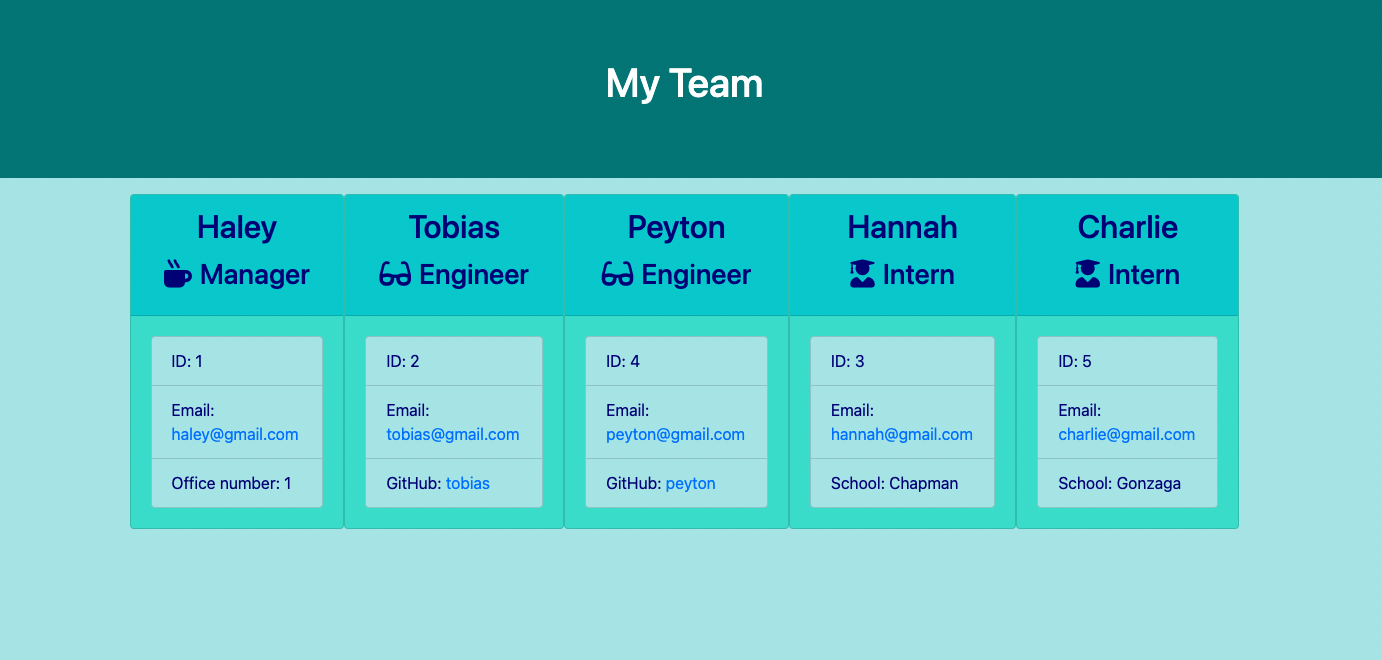
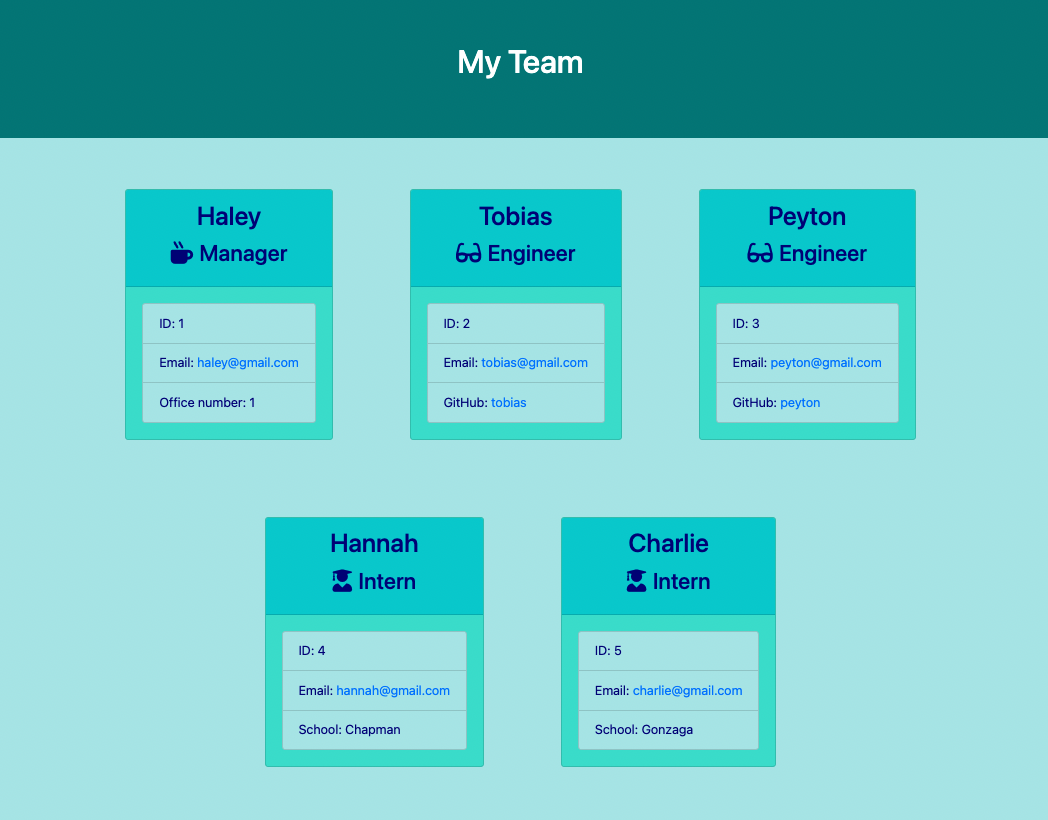
updated bootstrap classes

diff --git a/example.html b/example.html
@@ -1,4 +1,5 @@
-<!DOCTYPE html>
+
+    <!DOCTYPE html>
 <html lang="en">
 
 <head>
@@ -22,9 +23,9 @@
     </div>
     <div class="container">
         <div class="row justify-content-between">
-            <div class="team-area col-12 d-flex justify-content-center">
+            <div class="team-area col-12 d-flex flex-wrap justify-content-center">
                 
-        <div class="card employee-card">
+        <div class="card employee-card m-5">
         <div class="card-header text-center">
             <h2 class="card-title">Haley</h2>
             <h3 class="card-title"><i class="fas fa-mug-hot mr-2"></i>Manager</h3>
@@ -38,7 +39,7 @@
         </div>
     </div>
         
-        <div class="card employee-card">
+        <div class="card employee-card m-5">
     <div class="card-header text-center">
         <h2 class="card-title">Tobias</h2>
         <h3 class="card-title"><i class="fas fa-glasses mr-2"></i>Engineer</h3>
@@ -52,35 +53,35 @@
     </div>
 </div>
         
-        <div class="card employee-card">
+        <div class="card employee-card m-5">
     <div class="card-header text-center">
         <h2 class="card-title">Peyton</h2>
         <h3 class="card-title"><i class="fas fa-glasses mr-2"></i>Engineer</h3>
     </div>
     <div class="card-body">
         <ul class="list-group">
-            <li class="list-group-item">ID: 4</li>
+            <li class="list-group-item">ID: 3</li>
             <li class="list-group-item">Email: <a href="mailto:peyton@gmail.com">peyton@gmail.com</a></li>
             <li class="list-group-item">GitHub: <a href="https://github.com/peyton" target="_blank" rel="noopener noreferrer">peyton</a></li>
         </ul>
     </div>
 </div>
         
-        <div class="card employee-card">
+        <div class="card employee-card m-5">
     <div class="card-header text-center">
         <h2 class="card-title">Hannah</h2>
         <h3 class="card-title"><i class="fas fa-user-graduate mr-2"></i>Intern</h3>
     </div>
     <div class="card-body">
         <ul class="list-group">
-            <li class="list-group-item">ID: 3</li>
+            <li class="list-group-item">ID: 4</li>
             <li class="list-group-item">Email: <a href="mailto:hannah@gmail.com">hannah@gmail.com</a></li>
             <li class="list-group-item">School: Chapman</li>
         </ul>
     </div>
 </div>
         
-        <div class="card employee-card">
+        <div class="card employee-card m-5">
     <div class="card-header text-center">
         <h2 class="card-title">Charlie</h2>
         <h3 class="card-title"><i class="fas fa-user-graduate mr-2"></i>Intern</h3>

diff --git a/util/generateHtml.js b/util/generateHtml.js
@@ -4,7 +4,7 @@ const generateTeam = team => {
     // create the manager html
     const generateManager = manager => {
         return `
-        <div class="card employee-card">
+        <div class="card employee-card m-5">
         <div class="card-header text-center">
             <h2 class="card-title">${manager.getName()}</h2>
             <h3 class="card-title"><i class="fas fa-mug-hot mr-2"></i>${manager.getRole()}</h3>
@@ -23,7 +23,7 @@ const generateTeam = team => {
     // create the html for engineers
     const generateEngineer = engineer => {
         return `
-        <div class="card employee-card">
+        <div class="card employee-card m-5">
     <div class="card-header text-center">
         <h2 class="card-title">${engineer.getName()}</h2>
         <h3 class="card-title"><i class="fas fa-glasses mr-2"></i>${engineer.getRole()}</h3>
@@ -42,7 +42,7 @@ const generateTeam = team => {
     // create the html for interns
     const generateIntern = intern => {
         return `
-        <div class="card employee-card">
+        <div class="card employee-card m-5">
     <div class="card-header text-center">
         <h2 class="card-title">${intern.getName()}</h2>
         <h3 class="card-title"><i class="fas fa-user-graduate mr-2"></i>${intern.getRole()}</h3>
@@ -107,7 +107,7 @@ module.exports = team => {
     </div>
     <div class="container">
         <div class="row justify-content-between">
-            <div class="team-area col-12 d-flex justify-content-center">
+            <div class="team-area col-12 d-flex flex-wrap justify-content-center">
                 ${generateTeam(team)}
             </div>
         </div>
